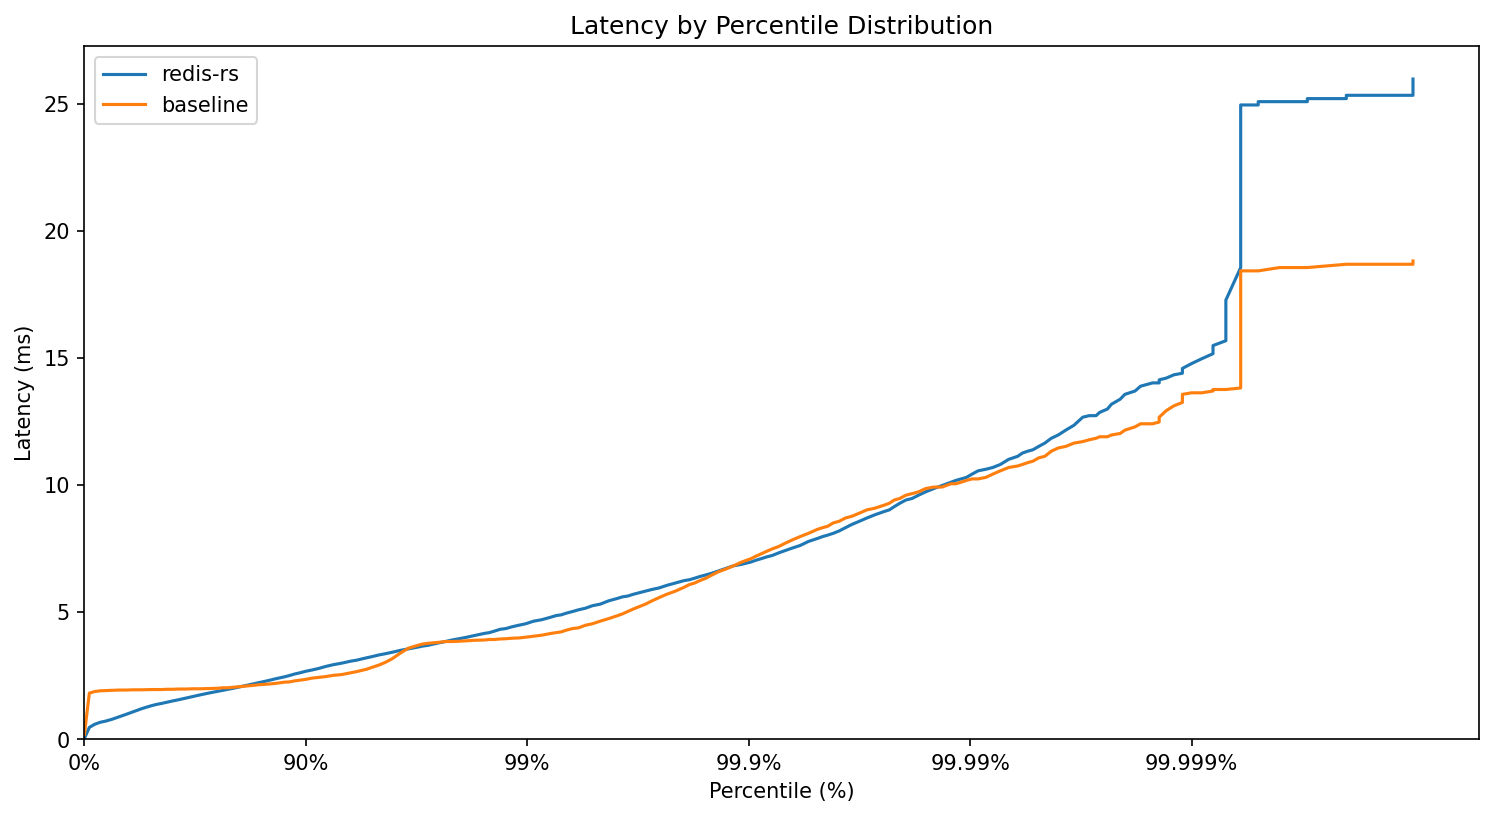
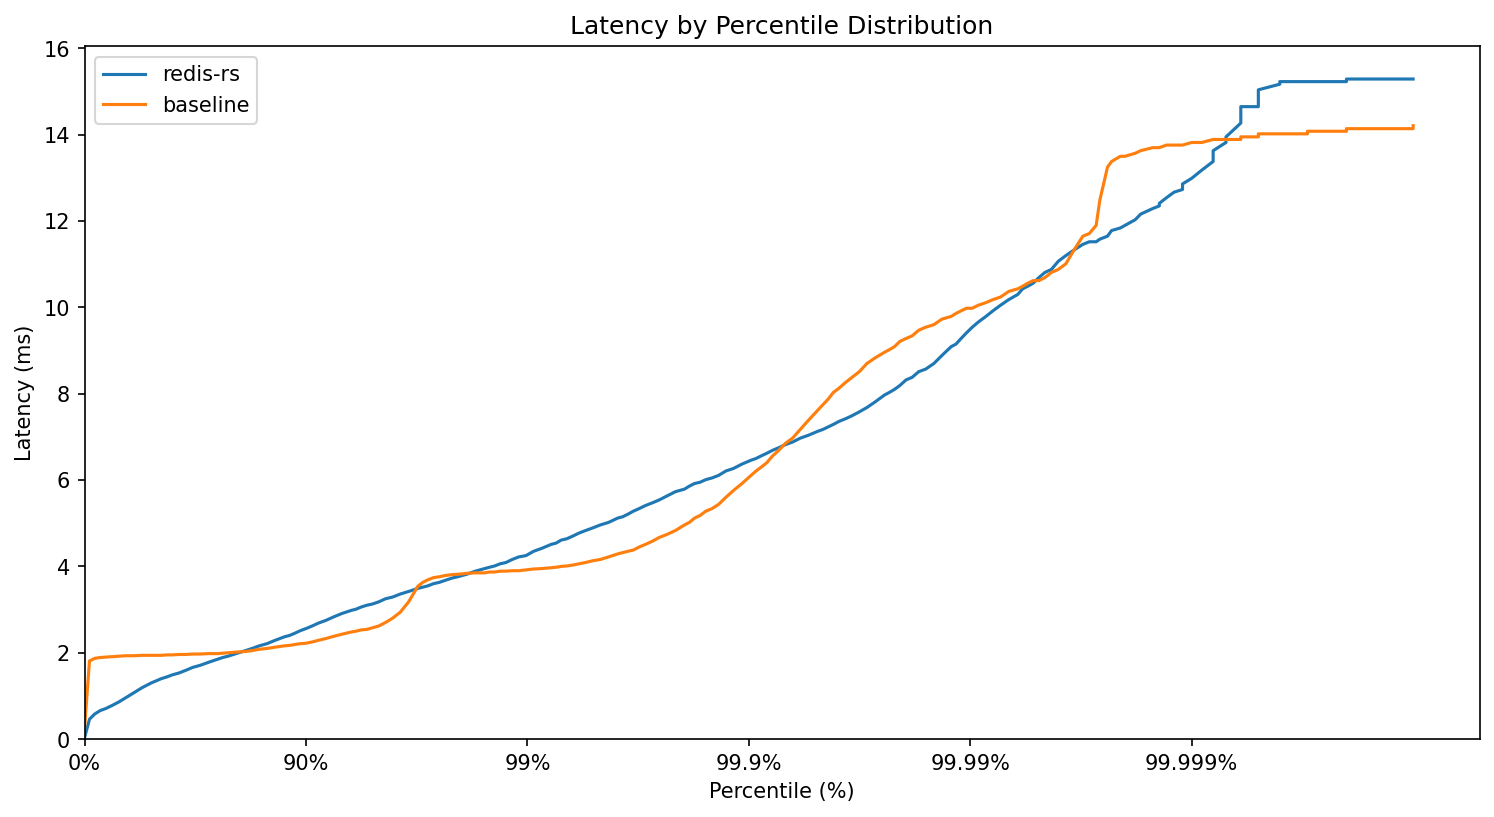
feat: use jemalloc for mem management

diff --git a/src/main.rs b/src/main.rs
@@ -1,3 +1,6 @@
+#[global_allocator]
+static GLOBAL: tikv_jemallocator::Jemalloc = tikv_jemallocator::Jemalloc;
+
 use std::{
     net::{Ipv4Addr, SocketAddrV4},
     path::PathBuf,
@@ -7,7 +10,7 @@ use anyhow::{bail, Result};
 use clap::Parser;
 use tokio::net::{TcpListener, TcpStream};
 
-use codecrafters_redis::{Config, Follower, ReplicaType, Server, Store};
+use redis_rust::{Config, Follower, ReplicaType, Server, Store};
 
 const PORT: u16 = 6379;
 

diff --git a/tests/pipelining.rs b/tests/pipelining.rs
@@ -2,7 +2,7 @@ use resp::Value;
 use tokio::io::{AsyncReadExt, AsyncWriteExt};
 use tokio::net::{TcpListener, TcpStream};
 
-use codecrafters_redis::{Config, ReplicaType, Server, Store};
+use redis_rust::{Config, ReplicaType, Server, Store};
 
 async fn setup_test_server() -> (u16, tokio::task::JoinHandle<()>) {
     let listener = TcpListener::bind("127.0.0.1:0").await.unwrap();

diff --git a/README.md b/README.md
@@ -27,9 +27,9 @@ This Redis implementation has been benchmarked against the official Redis server
 
 | Implementation          | Ops/sec | KB/sec  | Avg Latency (ms) |
 | ----------------------- | ------- | ------- | ---------------- |
-| **Redis (Baseline)**    | 130,054 | 135,560 | 23.1             |
-| **Rust Implementation** | 173,509 | 180,854 | 17.3             |
-| **Improvement**         | +33%    | +33%    | +25%             |
+| **Redis (Baseline)**    | 293,225 | 305,637 | 10.2             |
+| **Rust Implementation** | 397,667 | 414,500 | 7.5              |
+| **Improvement**         | +35%    | +35%    | +26%             |
 
 ## Latency Benchmark
 
@@ -44,11 +44,11 @@ This Redis implementation has been benchmarked against the official Redis server
 
 ![Latency by Percentile Distribution](assets/latency.png)
 
-| Implementation          | Mean (ms) | p50 (ms) | p99 (ms) | p99.9 (ms) | Max (ms) |
-| ----------------------- | --------- | -------- | -------- | ---------- | -------- |
-| **Redis (Baseline)**    | 4.01      | 4.00     | 5.82     | 10.24      | 81.41    |
-| **Rust Implementation** | 3.83      | 3.83     | 4.67     | 7.42       | 54.78    |
-| **Improvement**         | +4%       | +4%      | +20%     | +28%       | +33%     |
+| Implementation          | Mean (ms) | p50 (ms) | p99 (ms) | p99.9 (ms) |
+| ----------------------- | --------- | -------- | -------- | ---------- |
+| **Redis (Baseline)**    | 2.04      | 1.94     | 3.92     | 6.08       |
+| **Rust Implementation** | 1.44      | 1.30     | 4.29     | 6.43       |
+| **Improvement**         | +29%      | +33%     | -9%      | -6%        |
 
 ## Running Benchmarks
 
